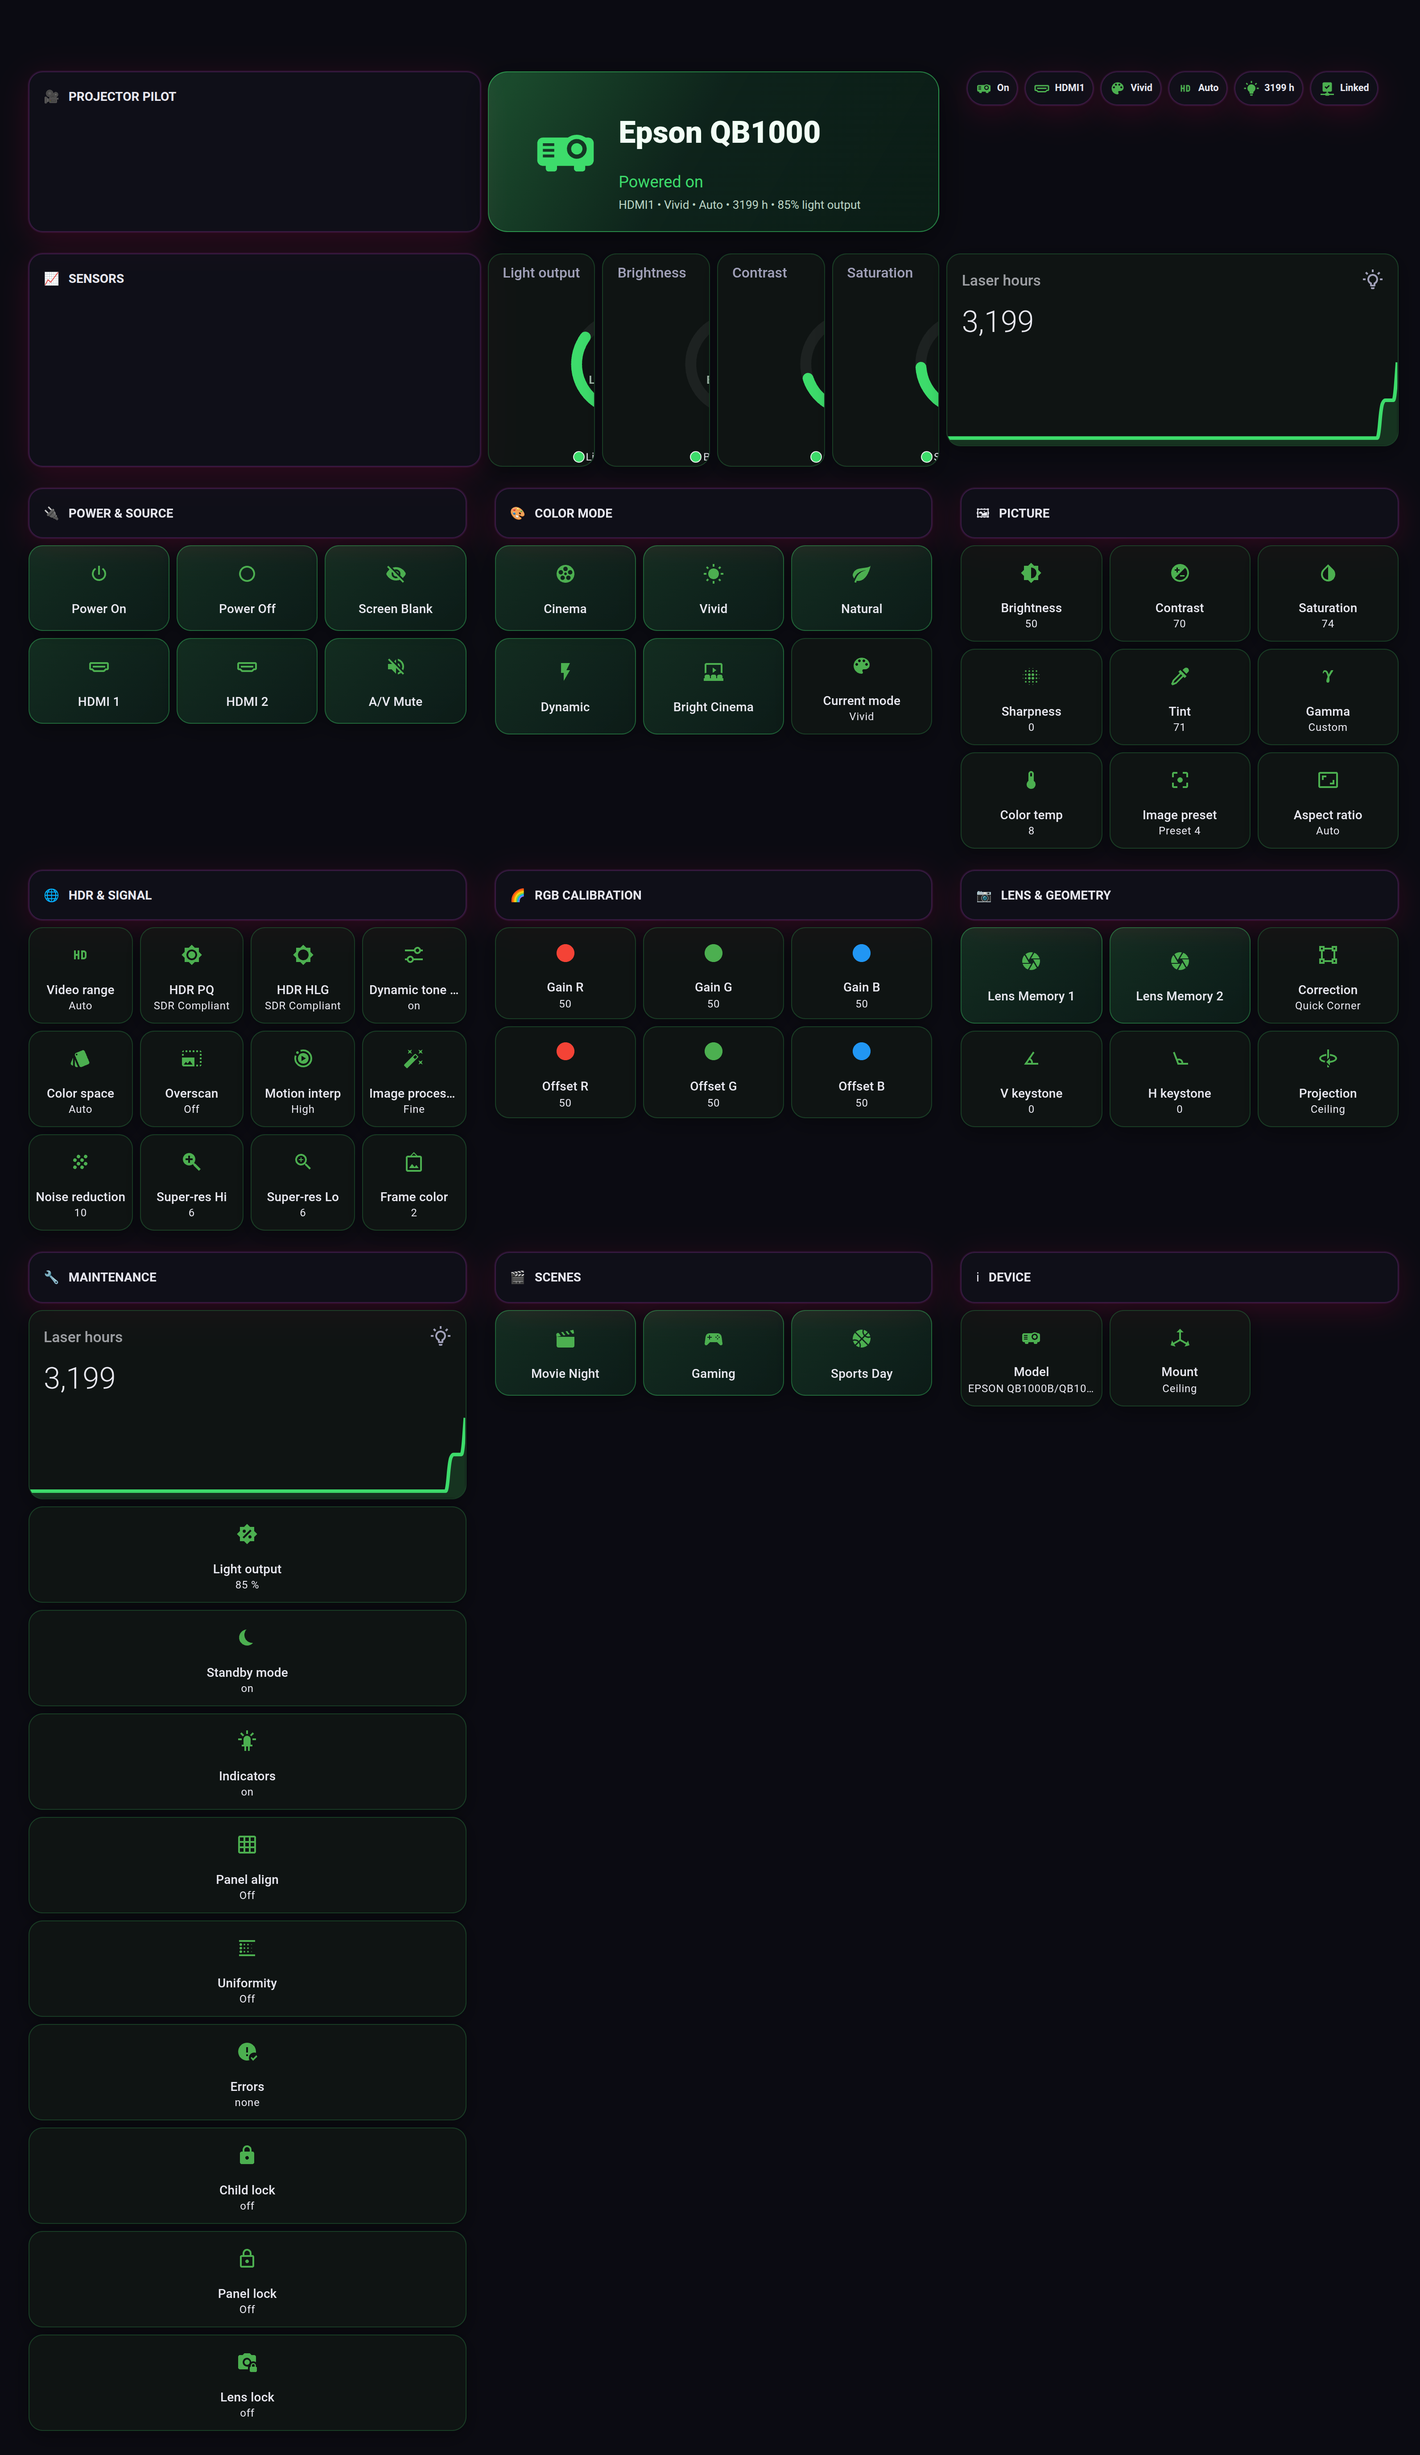
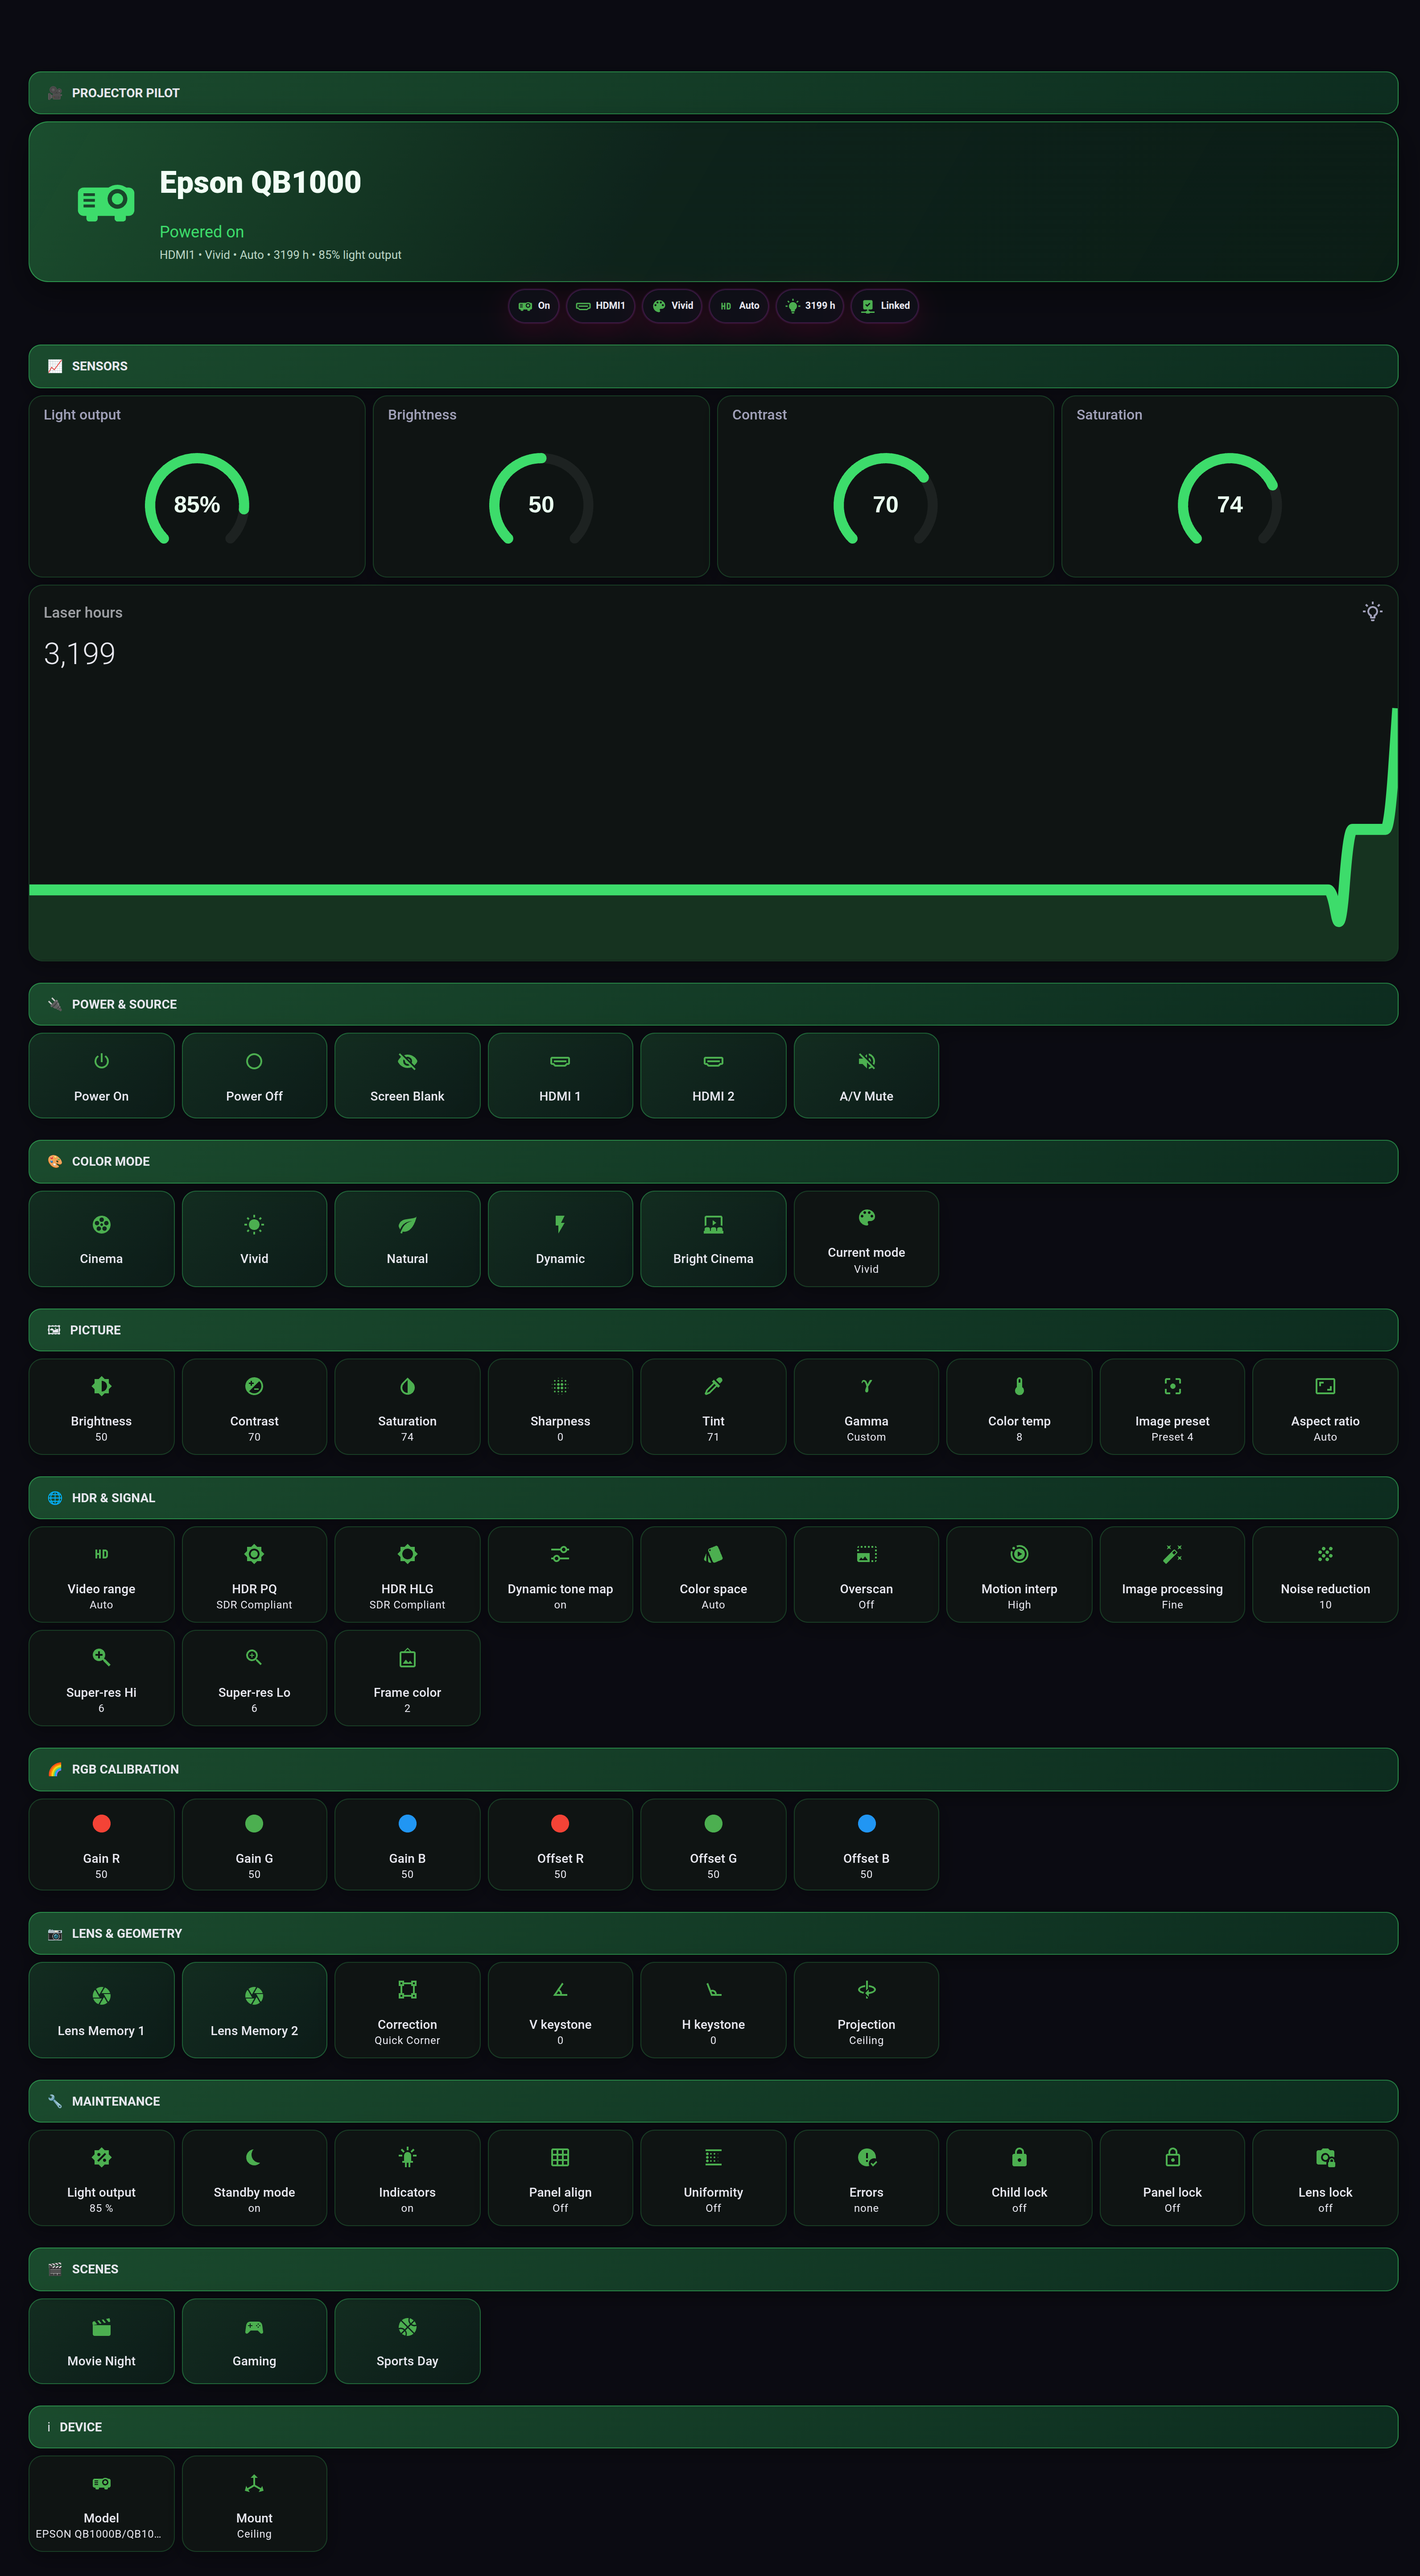
site: fixed wide HA board (columns full + gauge circles), full-width embeds

diff --git a/docs/guide/home-automation/index.html b/docs/guide/home-automation/index.html
@@ -138,7 +138,7 @@
       <h2>Copy a ready-made dashboard</h2>
       <p class="lead">You do not have to hand-build a Lovelace view. Tap <b>Copy dashboard</b> on the Home Assistant screen and the app hands you a complete dashboard: one card with the projector's state and a button for every Scene and control it synced.</p>
       <figure style="margin:28px 0 0">
-        <div style="max-height:660px;overflow-y:auto;border:1px solid rgba(46,160,67,0.28);border-radius:16px;box-shadow:0 10px 30px rgba(0,0,0,0.35)">
+        <div style="border:1px solid rgba(46,160,67,0.28);border-radius:16px;box-shadow:0 10px 30px rgba(0,0,0,0.35);overflow:hidden">
           <img src="/screenshots/ha-dashboard.png" alt="The Projector Pilot dashboard in Home Assistant: power and source, color modes, the full picture menu, HDR and signal, RGB calibration, lens and geometry, a laser-hours graph, maintenance, and Scenes - all as green glass tiles" style="display:block;width:100%" />
         </div>
         <figcaption>The live board this setup produces in Home Assistant - every projector reading as a green glass tile, a laser-hours graph, and a button for every control and Scene. Scroll it, or click to enlarge.</figcaption>

diff --git a/docs/guide/home-assistant-dashboard/index.html b/docs/guide/home-assistant-dashboard/index.html
@@ -56,7 +56,7 @@
 <section>
   <div class="wrap">
     <figure>
-      <div style="max-height:660px;overflow-y:auto;border:1px solid rgba(46,160,67,0.28);border-radius:16px;box-shadow:0 10px 30px rgba(0,0,0,0.35)">
+      <div style="border:1px solid rgba(46,160,67,0.28);border-radius:16px;box-shadow:0 10px 30px rgba(0,0,0,0.35);overflow:hidden">
         <img src="/screenshots/ha-dashboard.png" alt="The finished Projector Pilot dashboard in Home Assistant: power and source, color modes, the full picture menu, HDR and signal, RGB calibration, lens and geometry, maintenance with a laser-hours graph, and Scenes, all as green glass tiles" style="display:block;width:100%" />
       </div>
       <figcaption>What you are building. Scroll it, or click to enlarge.</figcaption>
